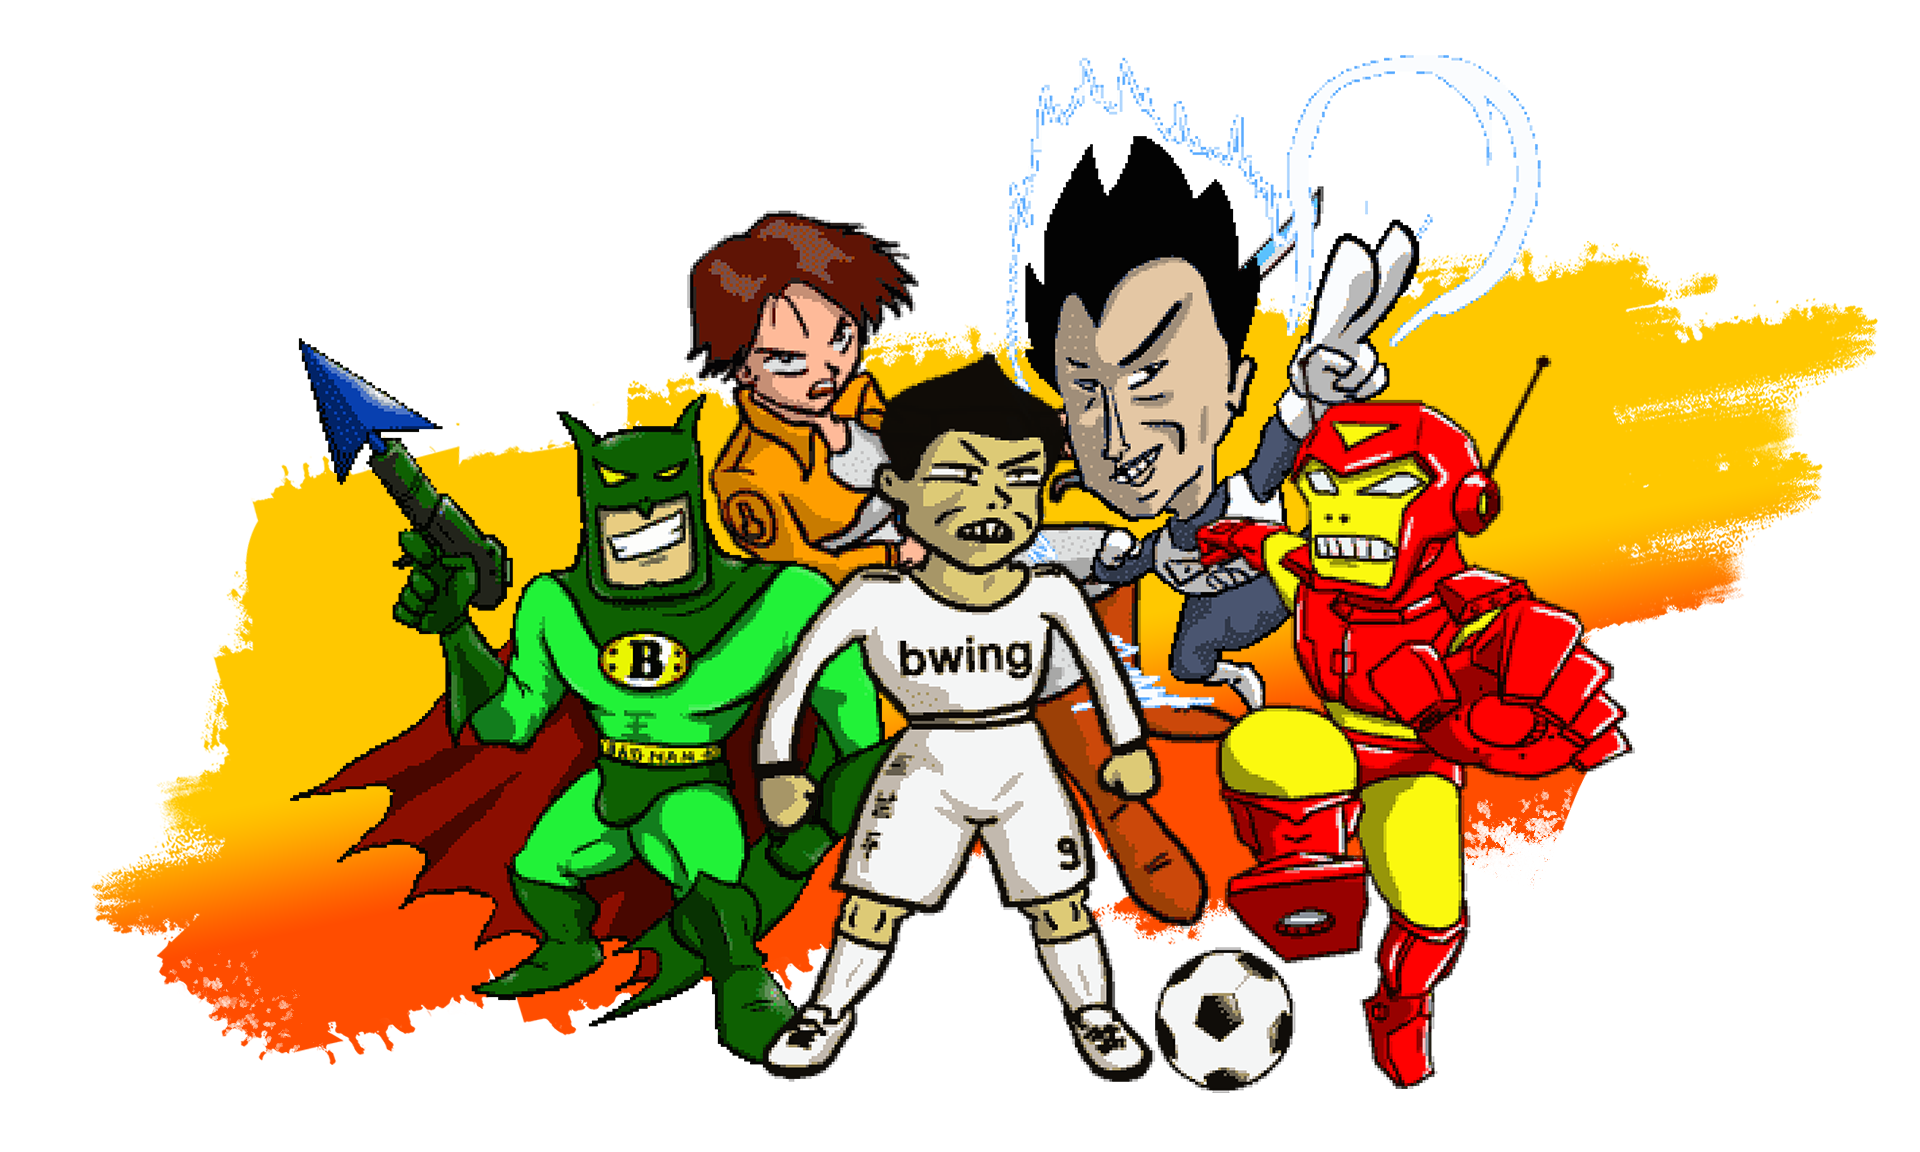
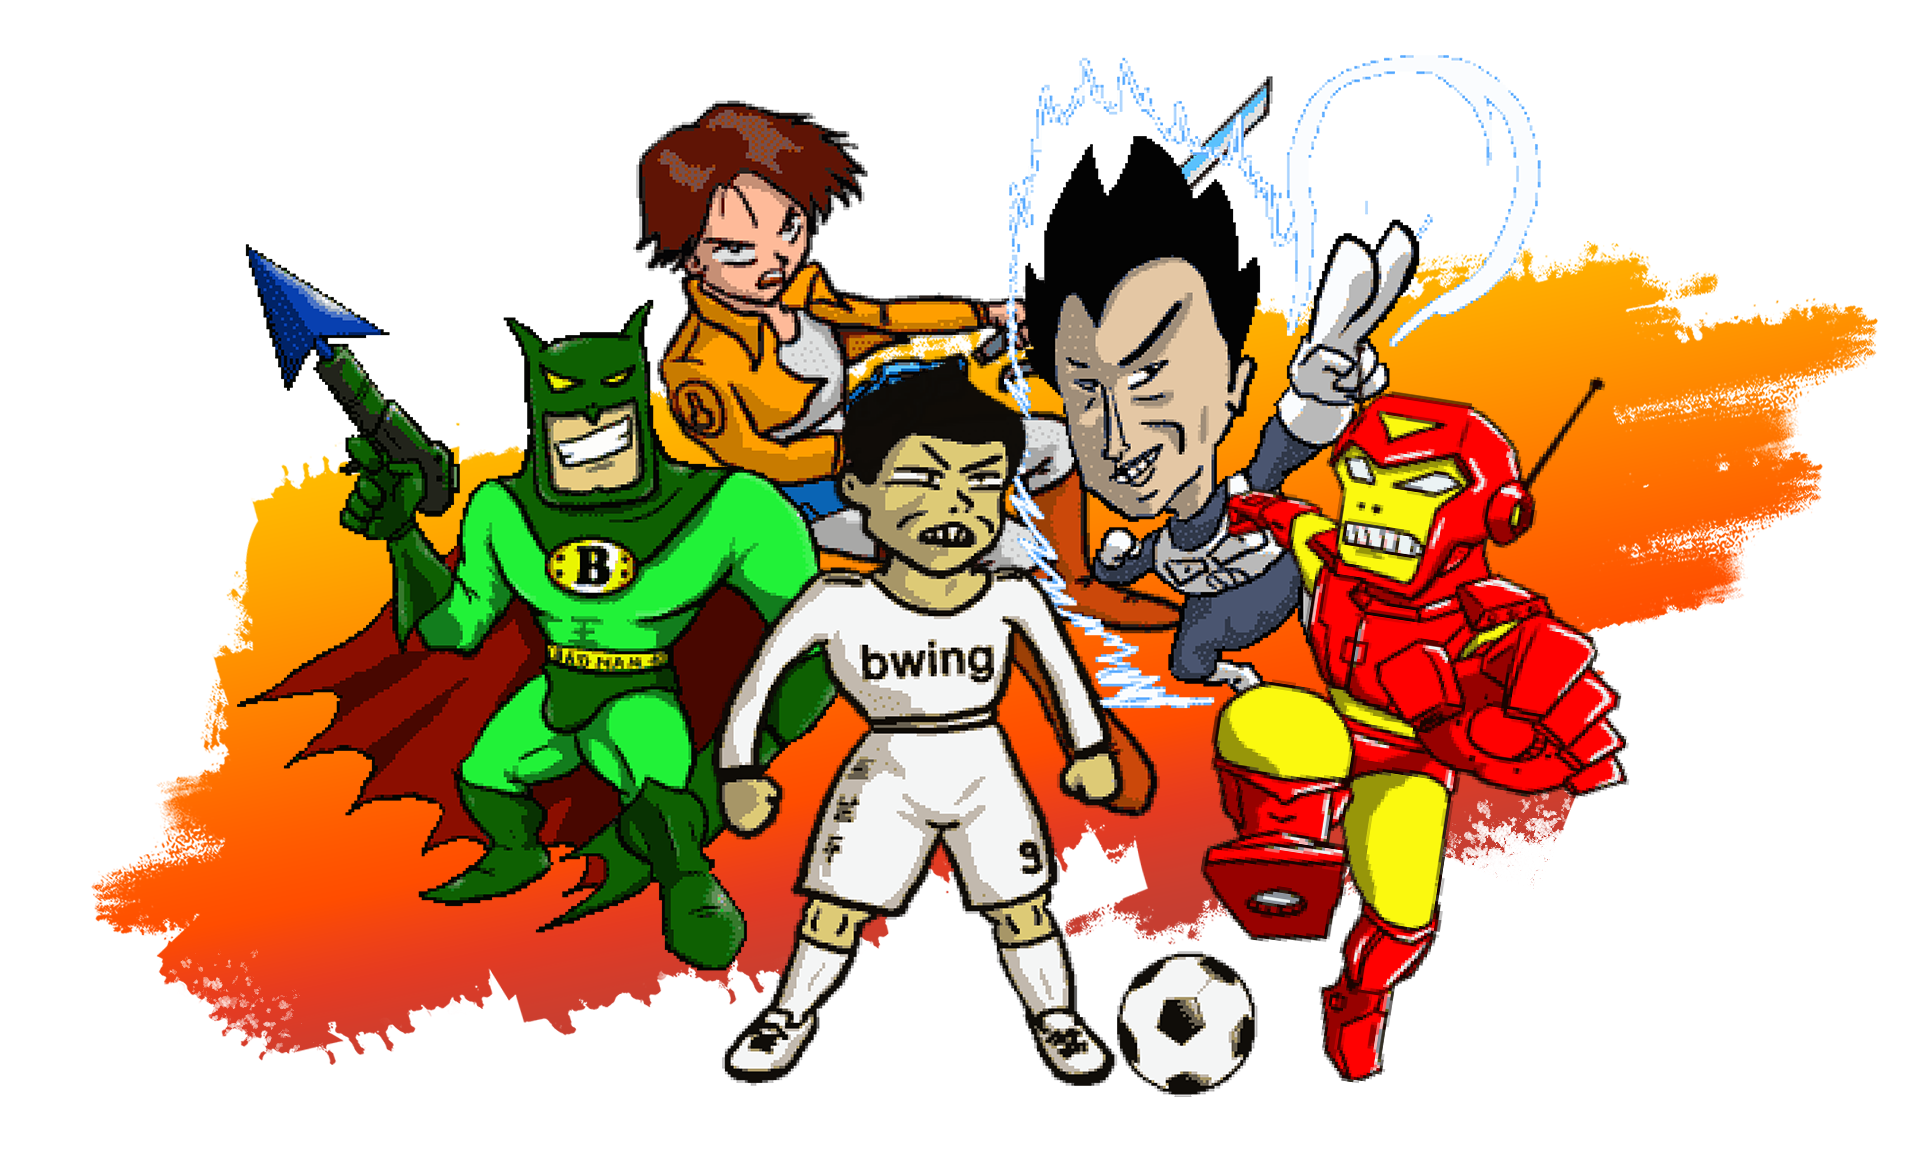
Ajustes no poster e adicionando JS na nav

diff --git a/src/assets/js/script.js b/src/assets/js/script.js
@@ -1,0 +1,7 @@
+const navigationLinks = document.querySelectorAll('.navigation__links')
+
+navigationLinks.forEach(link => {
+  link.addEventListener('click', () => {
+    // link.innerHTML.style.color = "red"
+  })
+})

diff --git a/index.html b/index.html
@@ -21,5 +21,6 @@
     </div>
 
     <script src="src/assets/js/router.js"></script>
+    <script src="src/assets/js/script.js"></script>
   </body>
 </html>

diff --git a/styles.css b/styles.css
@@ -25,3 +25,9 @@ body {
   color: var(--neutral-light);
 }
 
+.navigation__links:hover {
+  color: var(--primary-dark);
+}
+
+
+
